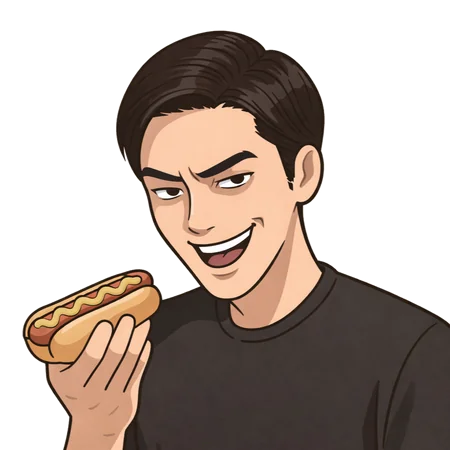
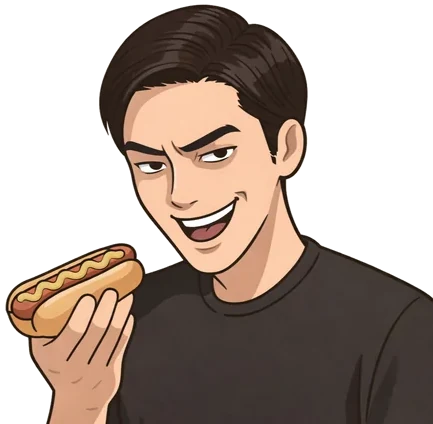
ProblemSection: 캐릭터 이미지 실루엣 트리밍 + 박스를 카드 전체 높이로 확장(하단 정렬 보장)

diff --git a/src/components/ProblemSection.jsx b/src/components/ProblemSection.jsx
@@ -100,7 +100,7 @@ export default function ProblemSection() {
               key={s.key}
               className={'rounded-card overflow-hidden border border-mute/20 bg-canvas-soft flex items-center ' + (s.reverse ? 'flex-row-reverse' : 'flex-row')}
             >
-              <div className="shrink-0 bg-canvas-soft w-24 sm:w-36 aspect-square">
+              <div className="shrink-0 self-stretch bg-canvas-soft w-24 sm:w-36">
                 <img
                   src={s.image}
                   alt={s.emphasis}
